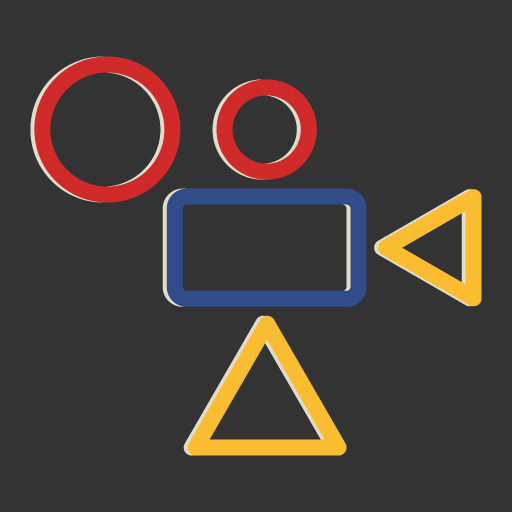
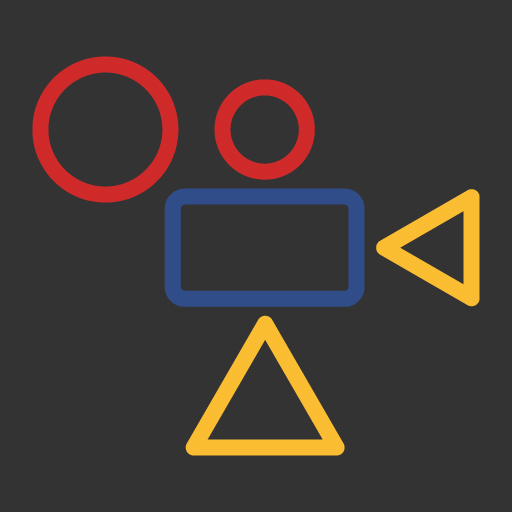
Add files via upload

diff --git a/index.html b/index.html
@@ -8,7 +8,7 @@
     <meta name="apple-mobile-web-app-capable" content="yes">
     <meta name="apple-mobile-web-app-status-bar-style" content="black-translucent">
     <meta name="apple-mobile-web-app-title" content="1Year2Hours">
-    <link rel="apple-touch-icon" href="icon7.jpg?v=2">
+    <link rel="apple-touch-icon" href="icon6.jpg?v=2">
 
     <style>
         :root {